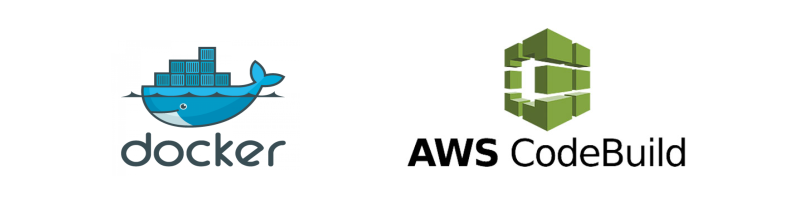
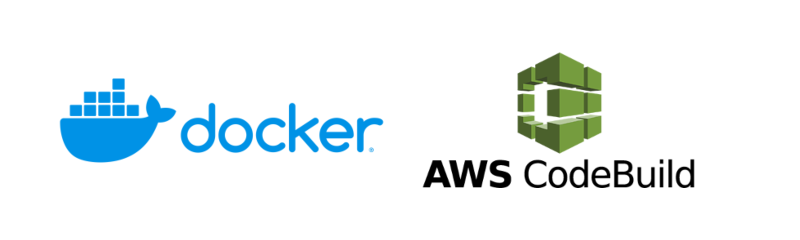
adding images, undrafting docker

Changed region(s): [[0.0625, 0.21, 0.5, 0.84], [0.5, 0.15, 0.875, 0.84]]

diff --git a/content/posts/docker-on-codebuild.md b/content/posts/docker-on-codebuild.md
@@ -1,8 +1,8 @@
 ---
 title: "Docker on Codebuild"
 subtitle: ""
-date: 2022-01-10T12:23:48Z
-lastmod: 2022-01-10T12:23:48Z
+date: 2022-01-10T13:23:48Z
+lastmod: 2022-01-10T13:23:48Z
 draft: false
 author: ""
 authorLink: ""
@@ -14,7 +14,7 @@ categories: []
 hiddenFromHomePage: false
 hiddenFromSearch: false
 
-featuredImage: ""
+featuredImage: "/images/docker-codebuild.png"
 featuredImagePreview: "/images/docker-codebuild-preview.png"
 
 toc:

diff --git a/content/posts/go-lambdas-on-graviton.md b/content/posts/go-lambdas-on-graviton.md
@@ -14,8 +14,8 @@ categories: []
 hiddenFromHomePage: false
 hiddenFromSearch: false
 
-featuredImage: ""
-featuredImagePreview: ""
+featuredImage: "go-lambda-arm.png"
+featuredImagePreview: "go-lambda-arm-preview.png"
 
 toc:
   enable: true
